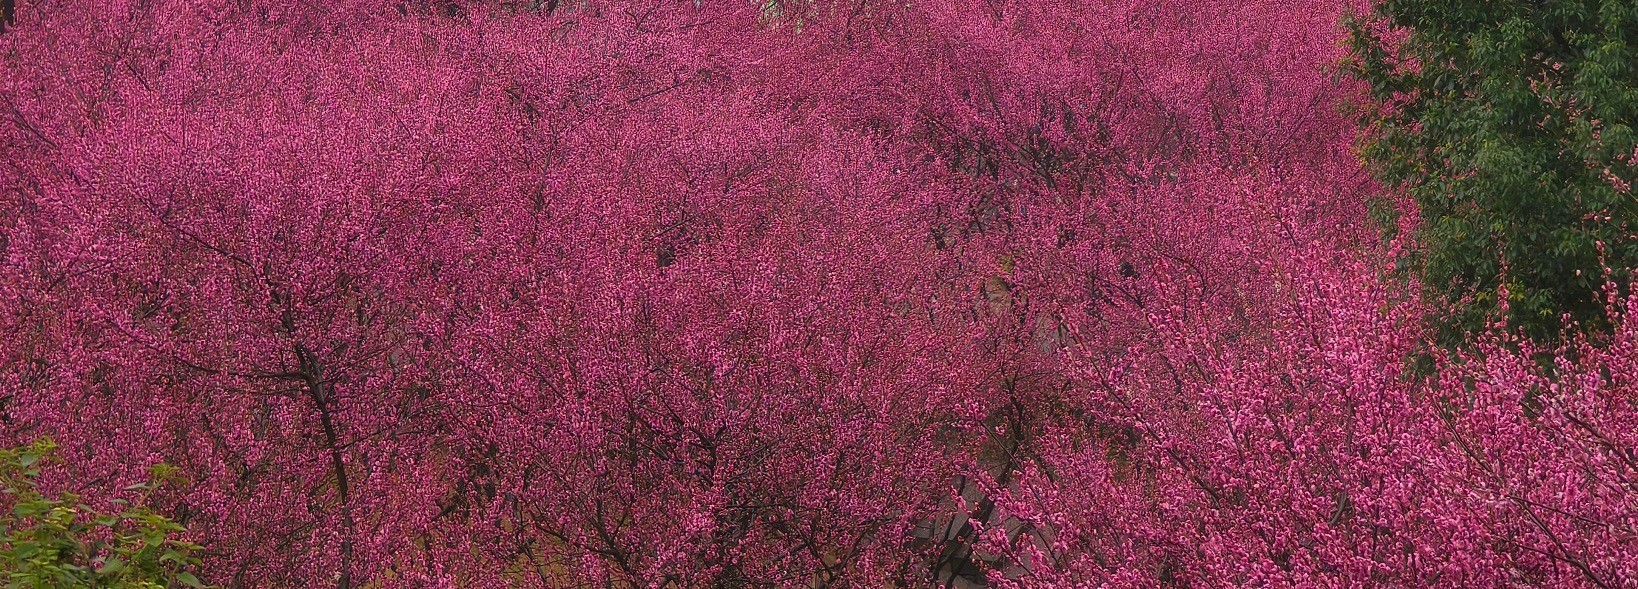
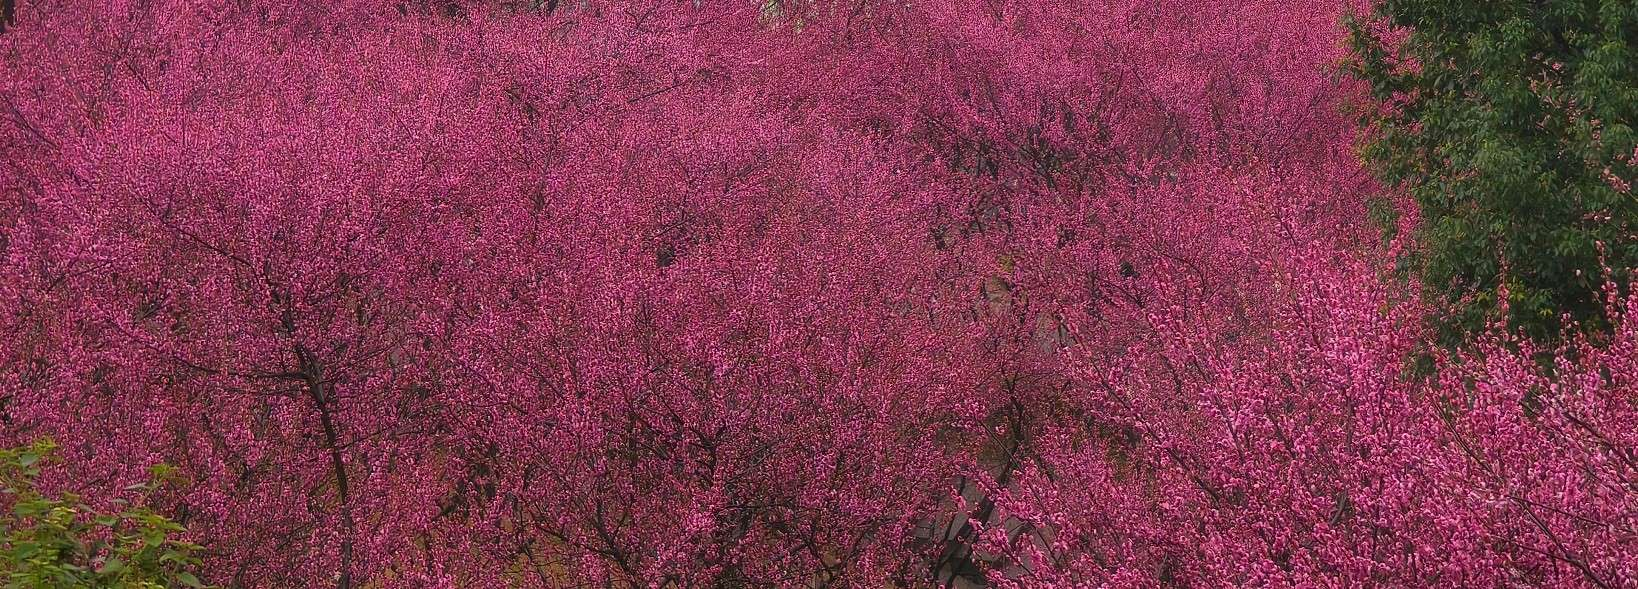
压缩图片；指定分页插件版本为3.0.0

diff --git a/_includes/nav.html b/_includes/nav.html
@@ -1,9 +1,9 @@
 <nav class="navbar navbar-expand-xl navbar-light fixed-top navbar-custom {% if page.nav-short %}top-nav-short-permanent{% else %}top-nav-regular{% endif %}">
 
   {%- if site.title-img -%}
-    <a class="navbar-brand navbar-brand-logo" href="{{ '/' | absolute_url }}"><img alt="{{ t.site.home }} Logo" src="{{ site.title-img | relative_url}}"/></a>
+    <a class="navbar-brand navbar-brand-logo" href="/{{ lang }}"><img alt="{{ t.site.home }} Logo" src="{{ site.title-img | relative_url}}"/></a>
   {%- elsif site.title -%}
-    <a class="navbar-brand" href="{{ '/' | absolute_url }}">{{ t.site.home }}</a>
+    <a class="navbar-brand" href="/{{ lang }}">{{ t.site.home }}</a>
   {%- endif -%}
 
   <button class="navbar-toggler" type="button" data-toggle="collapse" data-target="#main-navbar" aria-controls="main-navbar" aria-expanded="false" aria-label="Toggle navigation">
@@ -76,7 +76,7 @@
   {% if site.avatar and page.show-avatar != false %}
     <div class="avatar-container">
       <div class="avatar-img-border">
-        <a href="{{ '/' | absolute_url }}">
+        <a href="/{{ lang }}">
           <img alt="Navigation bar avatar" class="avatar-img" src="{{ site.avatar | relative_url }}" />
         </a>
       </div>
